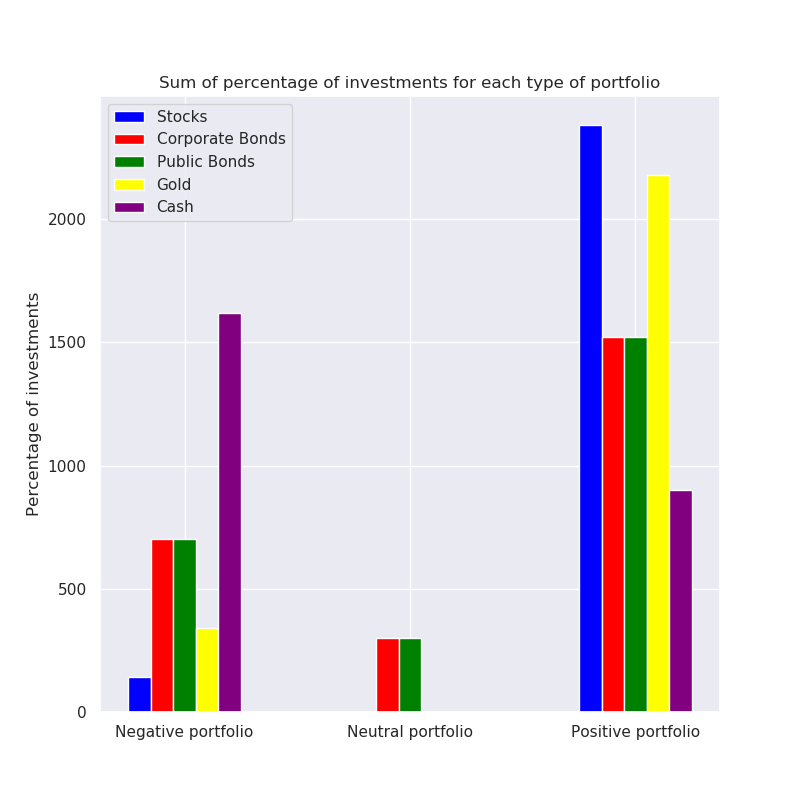
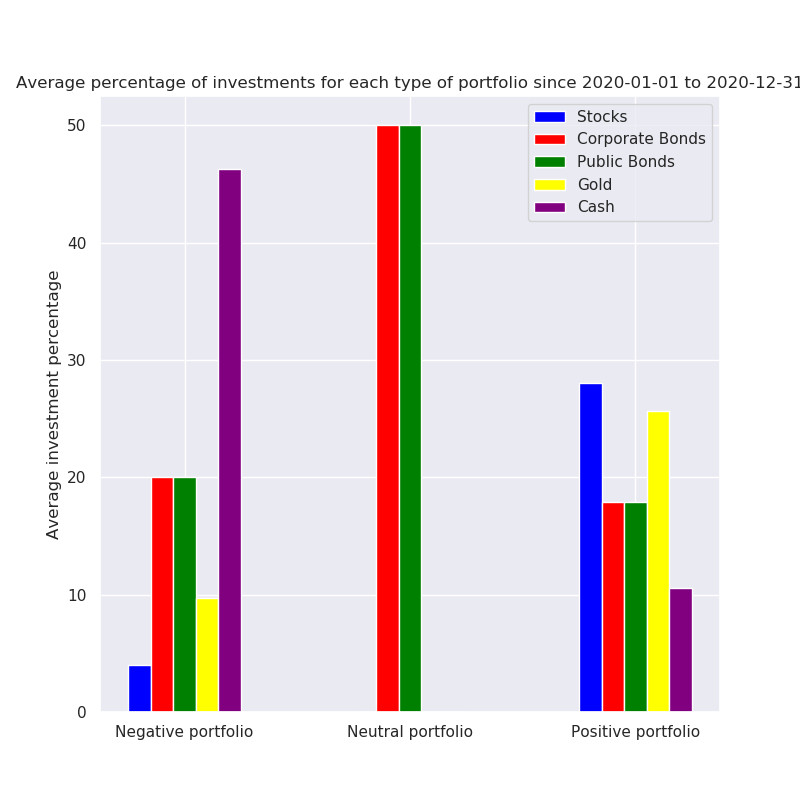
Final version

diff --git a/final project/data_analysis/data_analysis.py b/final project/data_analysis/data_analysis.py
@@ -26,7 +26,6 @@ class CreateGraphsFromCsv():
         """
         
         # Parameter checking.
-        
         try:
             assert os.path.isfile(path_to_csv_file), f"\033[1m ERROR: \033[0m The path to the csv file ({path_to_csv_file}) is not valid."
             assert "portfolio_metrics.csv" in path_to_csv_file, "\033[1m ERROR: \033[0m The file is not a portfolio_metrics.csv file. Please, check the path."
@@ -36,6 +35,7 @@ class CreateGraphsFromCsv():
         if os.path.isdir(folder_to_save_graphs) == False: os.mkdir(folder_to_save_graphs)
         self.folder_to_save_graphs = folder_to_save_graphs
         self.path_to_csv_file = path_to_csv_file
+        
         
     def bar_plot_type_portfolio(self, title="Number of each portfolio", x_label=None, y_label="Number of Portfolios", save_graph=True):
         """
@@ -59,14 +59,14 @@ class CreateGraphsFromCsv():
         df = pd.DataFrame(data, bars, columns=["Number of Portfolios"])
         sns.set(style="darkgrid")
         sns.barplot(x=list(df.index), y=list(df["Number of Portfolios"]), palette=["green", "blue", "red"])
-        plt.ylabel(x_label)
+        plt.xlabel(x_label)
         plt.ylabel(y_label)
         plt.title(title)
         if save_graph: plt.savefig(self.folder_to_save_graphs + "/bar_plot.png")
         plt.show()
         
     
-    def bar_plot_sum_assets(self, title="Sum of percentage of investments for each type of portfolio", y_label="Percentage of investments", save_graph=True):
+    def bar_plot_sum_assets(self, title="Average percentage of investments for each type of portfolio since 2020-01-01 to 2020-12-31", y_label="Average investment percentage", save_graph=True):
         """
         Create a bar plot of the sum of investments in each asset for each type of portfolio (Positive, negative or neutral return).
         
@@ -86,7 +86,7 @@ class CreateGraphsFromCsv():
         asset_sum_percentage = {}
 
         for name in name_assets:
-            asset_sum_percentage[name] = [sum(df[df["RETURN"] < 0][name]), sum(df[df["RETURN"] == 0][name]), sum(df[df["RETURN"] > 0][name])]
+            asset_sum_percentage[name] = [df[df["RETURN"] < 0][name].mean(), df[df["RETURN"] == 0][name].mean(), df[df["RETURN"] > 0][name].mean()]
 
         barWidth = 0.1
 
@@ -98,7 +98,7 @@ class CreateGraphsFromCsv():
 
         plt.subplots(figsize=(8,8))
 
-        for k,v in asset_sum_percentage.items():
+        for k, v in asset_sum_percentage.items():
             if k == "ST":
                 plt.bar(r1, v, color="blue", width=barWidth, edgecolor="white", label='Stocks')
             elif k == "CB":
@@ -116,8 +116,43 @@ class CreateGraphsFromCsv():
         plt.legend()
         if save_graph: plt.savefig(self.folder_to_save_graphs + "/bar_plot_sum_assets.png")
         plt.show()
+        
+        
+    def bar_plot_investing_asset(self, title="Average return investing in ", x_label="Percentage of investement", y_label="Average return", save_graph=True):
+        """
+        Create one bar plot for each asset and each one show the return per percentage invested in that asset.
+        
+        Args:
+            title (str): 
+                A string indicating the title for the bar plot.
+            x_label (str): 
+                A string indicating the label for x-axe.
+            y_label (str): 
+                A string indicating the label for y-axe.
+            save_graph (bool): 
+                A boolean indicating if the user want to save the graph.
+        """
+        df = pd.read_csv(self.path_to_csv_file)
+        name_assets = [name for name in list(df.columns) if name in ["ST", "CB", "PB", "GO", "CA"]]
     
-    
+        fig, ax = plt.subplots(5, 1, figsize=(10, 20))
+        idx = 0
+        for name in name_assets:
+            df2 = df[[name, "RETURN"]]
+            df2 = df2.groupby(name).mean().sort_values(name)
+            
+            sns.set(style="darkgrid")
+            sns.barplot(ax=ax[idx], x=list(df2.index), y=list(df2["RETURN"]), palette=["green", "blue", "red", "yellow", "orange", "purple"])
+            ax[idx].set_xlabel(x_label)
+            ax[idx].set_ylabel(y_label)
+            ax[idx].set_title(title + name)
+            idx += 1
+        
+        fig.tight_layout()   
+        if save_graph: plt.savefig(self.folder_to_save_graphs + "/average_return_investing_asset.png")    
+        plt.show()
+        
+            
     def scatter_chart(self, x="VOLAT", y="RETURN", color="COLOR", title="Risk-Return bubble chart", x_label="Risk (Volatility)", y_label="Return", save_graph=True):
         """
         Create a scatter chart from csv specified in the constructor of the class .
@@ -153,4 +188,3 @@ class CreateGraphsFromCsv():
         plt.ylabel(y_label)
         if save_graph: plt.savefig(self.folder_to_save_graphs + "/scatter_chart.png")
         plt.show()  
-        

diff --git a/final project/data_generation/data_generation.py b/final project/data_generation/data_generation.py
@@ -80,7 +80,7 @@ class Portfolio():
         asset_csv_names = {"ST":"amundi-msci-wrld-ae-c.csv", "CB":"ishares-global-corporate-bond-$.csv", "PB":"db-x-trackers-ii-global-sovereign-5.csv", "GO":"spdr-gold-trust.csv", "CA":"usdollar.csv"}
         remove_keys = [asset for asset in asset_csv_names.keys() if asset not in self.assets]
         for asset in remove_keys: del asset_csv_names[asset] 
-        path_csvs_availables = [web_scraping_csv_folder_path + "/" + csv_name for _, csv_name in asset_csv_names.items() if os.path.exists(web_scraping_csv_folder_path + "/" + csv_name)] 
+        path_csvs_availables = [web_scraping_csv_folder_path + "/" + csv_name for csv_name in asset_csv_names.values() if os.path.exists(web_scraping_csv_folder_path + "/" + csv_name)] 
         
         # Parameter checking.
         try:

diff --git a/final project/executable.py b/final project/executable.py
@@ -41,5 +41,6 @@ if consent == "Yes":
     save_graph_folder = input("Please, write the" + color.PURPLE + color.BOLD + " route" + color.END + " when you want" + color.PURPLE + color.BOLD + " spawn the graphs" + color.END + ": ")
     graphs = CreateGraphsFromCsv(path_to_csv_file=path_to_folder_portfolio + "/portfolio_metrics.csv", folder_to_save_graphs=save_graph_folder)
     graphs.bar_plot_type_portfolio()
+    graphs.bar_plot_investing_asset()
     graphs.bar_plot_sum_assets()
     graphs.scatter_chart()             
